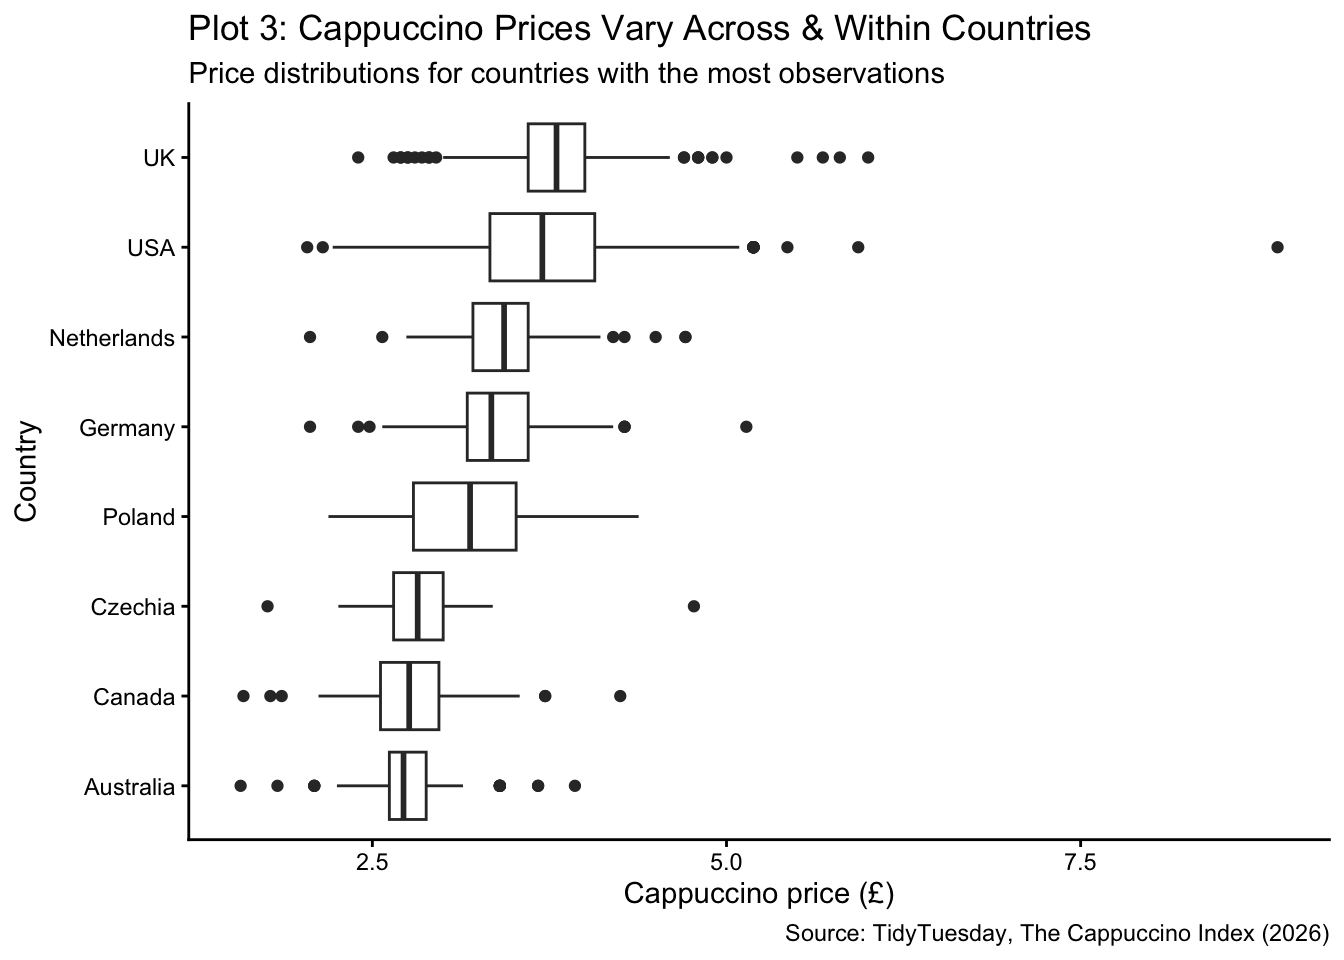
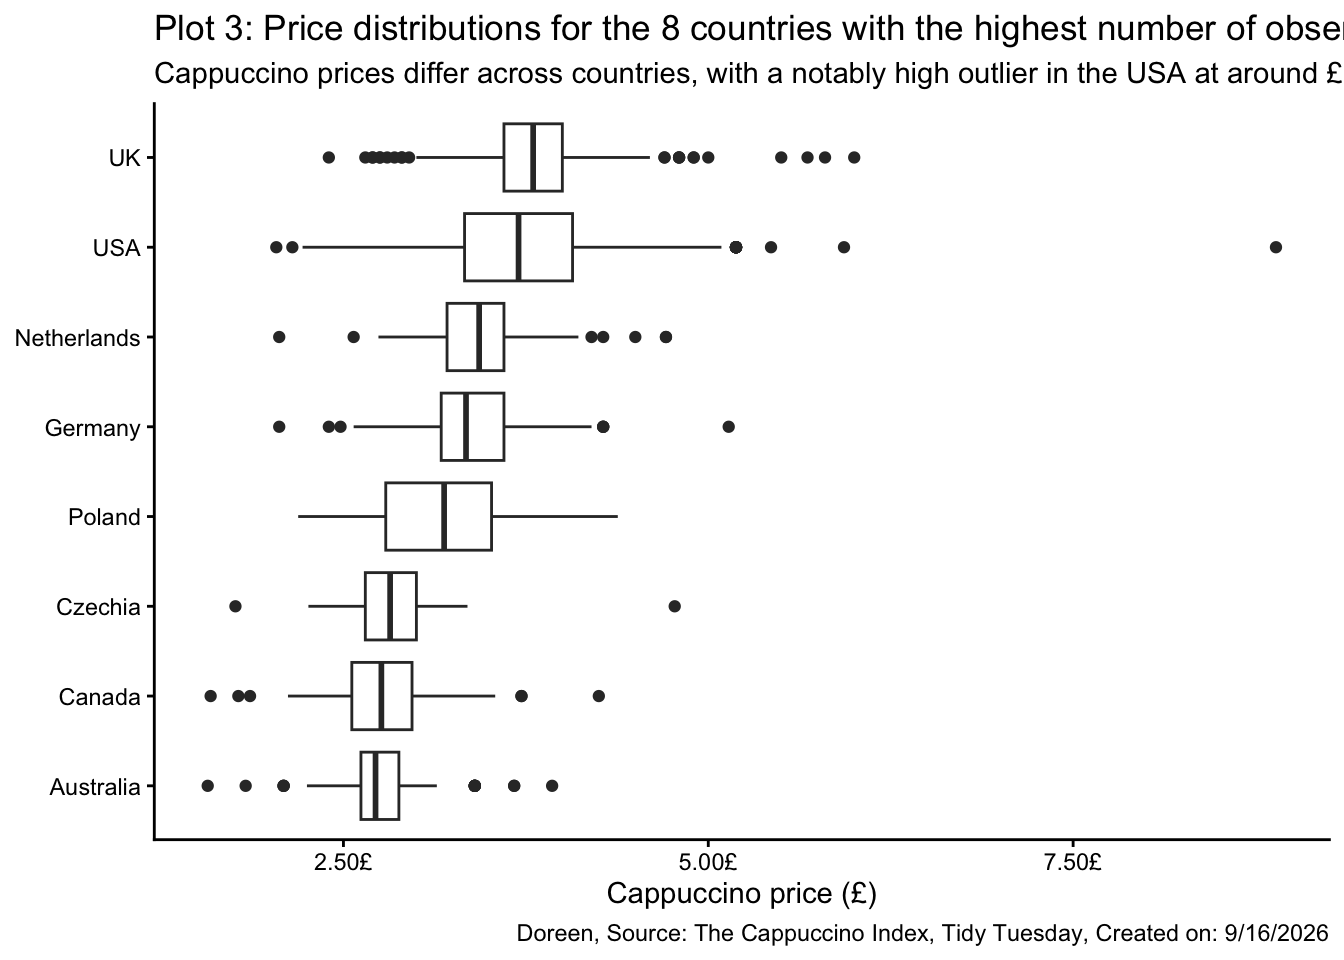
Built site for gh-pages

diff --git a/tt/2025-07-08.html b/tt/2025-07-08.html
@@ -532,15 +532,16 @@ cookieconsent.run({
 </div>
 <p><em>How does the price vary within countries?</em></p>
 <div class="cell">
-<details class="code-fold"><summary>Code</summary><div class="code-copy-outer-scaffold"><div class="sourceCode cell-code" id="cb7"><pre class="sourceCode numberSource r number-lines code-with-copy"><code class="sourceCode r"><span id="cb7-1"><a href="#cb7-1" aria-label="1"></a><span class="fu">ggplot</span>(cafe_top,<span class="fu">aes</span>(<span class="at">x =</span> <span class="fu">reorder</span>(country, price_gbp),<span class="at">y =</span> price_gbp)) <span class="sc">+</span></span>
+<details class="code-fold"><summary>Code</summary><div class="code-copy-outer-scaffold"><div class="sourceCode cell-code" id="cb7"><pre class="sourceCode numberSource r number-lines code-with-copy"><code class="sourceCode r"><span id="cb7-1"><a href="#cb7-1" aria-label="1"></a><span class="fu">ggplot</span>(cafe_top,<span class="fu">aes</span>(<span class="at">x =</span> <span class="fu">reorder</span>(country, price_gbp, <span class="at">FUN =</span> median),<span class="at">y =</span> price_gbp)) <span class="sc">+</span></span>
 <span id="cb7-2"><a href="#cb7-2" aria-label="2"></a>  <span class="fu">geom_boxplot</span>() <span class="sc">+</span></span>
 <span id="cb7-3"><a href="#cb7-3" aria-label="3"></a>  <span class="fu">coord_flip</span>() <span class="sc">+</span></span>
-<span id="cb7-4"><a href="#cb7-4" aria-label="4"></a>  <span class="fu">labs</span>(<span class="at">title =</span> <span class="st">"Plot 3: Cappuccino Prices Vary Across &amp; Within Countries"</span>,</span>
-<span id="cb7-5"><a href="#cb7-5" aria-label="5"></a>       <span class="at">subtitle =</span> <span class="st">"Price distributions for countries with the most observations"</span>,</span>
-<span id="cb7-6"><a href="#cb7-6" aria-label="6"></a>       <span class="at">x =</span> <span class="st">"Country"</span>,</span>
+<span id="cb7-4"><a href="#cb7-4" aria-label="4"></a>  <span class="fu">labs</span>(<span class="at">title =</span> <span class="st">"Plot 3: Price distributions for the 8 countries with the highest number of observations"</span>,</span>
+<span id="cb7-5"><a href="#cb7-5" aria-label="5"></a>       <span class="at">subtitle =</span> <span class="st">"Cappuccino prices differ across countries, with a notably high outlier in the USA at around £10"</span>,</span>
+<span id="cb7-6"><a href="#cb7-6" aria-label="6"></a>       <span class="at">x =</span> <span class="cn">NULL</span>,</span>
 <span id="cb7-7"><a href="#cb7-7" aria-label="7"></a>       <span class="at">y =</span> <span class="st">"Cappuccino price (£)"</span>,</span>
-<span id="cb7-8"><a href="#cb7-8" aria-label="8"></a>       <span class="at">caption =</span> <span class="st">"Source: TidyTuesday, The Cappuccino Index (2026)"</span>) <span class="sc">+</span></span>
-<span id="cb7-9"><a href="#cb7-9" aria-label="9"></a>  <span class="fu">theme_classic</span>()</span></code></pre></div><button title="Copy to Clipboard" class="code-copy-button"><i class="bi"></i></button></div>
+<span id="cb7-8"><a href="#cb7-8" aria-label="8"></a>       <span class="at">caption =</span> <span class="st">"Doreen, Source: The Cappuccino Index, Tidy Tuesday, Created on: 9/16/2026"</span>) <span class="sc">+</span></span>
+<span id="cb7-9"><a href="#cb7-9" aria-label="9"></a>   <span class="fu">scale_y_continuous</span>(<span class="at">labels =</span> scales<span class="sc">::</span><span class="fu">label_currency</span>(<span class="at">prefix =</span> <span class="st">""</span>, <span class="at">suffix =</span> <span class="st">"£"</span>)) <span class="sc">+</span></span>
+<span id="cb7-10"><a href="#cb7-10" aria-label="10"></a>  <span class="fu">theme_classic</span>()</span></code></pre></div><button title="Copy to Clipboard" class="code-copy-button"><i class="bi"></i></button></div>
 </details><div class="cell-output-display">
 <div>
 <figure class="figure"><p><img src="2025-07-08_files/figure-html/unnamed-chunk-5-1.png" class="img-fluid figure-img" width="672"></p>
@@ -1119,39 +1120,40 @@ cookieconsent.run({
 <span id="cb9-71"><a href="#cb9-71" aria-label="63"></a></span>
 <span id="cb9-72"><a href="#cb9-72" aria-label="64"></a>*How does the price vary within countries?*</span>
 <span id="cb9-75"><a href="#cb9-75" aria-label="65"></a><span class="in">```{r}</span></span>
-<span id="cb9-76"><a href="#cb9-76" aria-label="66"></a><span class="fu">ggplot</span>(cafe_top,<span class="fu">aes</span>(<span class="at">x =</span> <span class="fu">reorder</span>(country, price_gbp),<span class="at">y =</span> price_gbp)) <span class="sc">+</span></span>
+<span id="cb9-76"><a href="#cb9-76" aria-label="66"></a><span class="fu">ggplot</span>(cafe_top,<span class="fu">aes</span>(<span class="at">x =</span> <span class="fu">reorder</span>(country, price_gbp, <span class="at">FUN =</span> median),<span class="at">y =</span> price_gbp)) <span class="sc">+</span></span>
 <span id="cb9-77"><a href="#cb9-77" aria-label="67"></a>  <span class="fu">geom_boxplot</span>() <span class="sc">+</span></span>
 <span id="cb9-78"><a href="#cb9-78" aria-label="68"></a>  <span class="fu">coord_flip</span>() <span class="sc">+</span></span>
-<span id="cb9-79"><a href="#cb9-79" aria-label="69"></a>  <span class="fu">labs</span>(<span class="at">title =</span> <span class="st">"Plot 3: Cappuccino Prices Vary Across &amp; Within Countries"</span>,</span>
-<span id="cb9-80"><a href="#cb9-80" aria-label="70"></a>       <span class="at">subtitle =</span> <span class="st">"Price distributions for countries with the most observations"</span>,</span>
-<span id="cb9-81"><a href="#cb9-81" aria-label="71"></a>       <span class="at">x =</span> <span class="st">"Country"</span>,</span>
+<span id="cb9-79"><a href="#cb9-79" aria-label="69"></a>  <span class="fu">labs</span>(<span class="at">title =</span> <span class="st">"Plot 3: Price distributions for the 8 countries with the highest number of observations"</span>,</span>
+<span id="cb9-80"><a href="#cb9-80" aria-label="70"></a>       <span class="at">subtitle =</span> <span class="st">"Cappuccino prices differ across countries, with a notably high outlier in the USA at around £10"</span>,</span>
+<span id="cb9-81"><a href="#cb9-81" aria-label="71"></a>       <span class="at">x =</span> <span class="cn">NULL</span>,</span>
 <span id="cb9-82"><a href="#cb9-82" aria-label="72"></a>       <span class="at">y =</span> <span class="st">"Cappuccino price (£)"</span>,</span>
-<span id="cb9-83"><a href="#cb9-83" aria-label="73"></a>       <span class="at">caption =</span> <span class="st">"Source: TidyTuesday, The Cappuccino Index (2026)"</span>) <span class="sc">+</span></span>
-<span id="cb9-84"><a href="#cb9-84" aria-label="74"></a>  <span class="fu">theme_classic</span>()</span>
-<span id="cb9-85"><a href="#cb9-85" aria-label="75"></a><span class="in">```</span></span>
-<span id="cb9-86"><a href="#cb9-86" aria-label="76"></a>Cappuccino prices vary both across and within countries. The UK and USA have relatively high median prices among the 8 countries, while Czechia, Canada, and Australia have lower median prices. The different box widths also show that some countries like USA and Poland have more variation in cappuccino prices than others. Several countries have outliers, which shows that individual cafe can differ from the typical price.</span>
-<span id="cb9-87"><a href="#cb9-87" aria-label="77"></a></span>
+<span id="cb9-83"><a href="#cb9-83" aria-label="73"></a>       <span class="at">caption =</span> <span class="st">"Doreen, Source: The Cappuccino Index, Tidy Tuesday, Created on: 9/16/2026"</span>) <span class="sc">+</span></span>
+<span id="cb9-84"><a href="#cb9-84" aria-label="74"></a>   <span class="fu">scale_y_continuous</span>(<span class="at">labels =</span> scales<span class="sc">::</span><span class="fu">label_currency</span>(<span class="at">prefix =</span> <span class="st">""</span>, <span class="at">suffix =</span> <span class="st">"£"</span>)) <span class="sc">+</span></span>
+<span id="cb9-85"><a href="#cb9-85" aria-label="75"></a>  <span class="fu">theme_classic</span>()</span>
+<span id="cb9-86"><a href="#cb9-86" aria-label="76"></a><span class="in">```</span></span>
+<span id="cb9-87"><a href="#cb9-87" aria-label="77"></a>Cappuccino prices vary both across and within countries. The UK and USA have relatively high median prices among the 8 countries, while Czechia, Canada, and Australia have lower median prices. The different box widths also show that some countries like USA and Poland have more variation in cappuccino prices than others. Several countries have outliers, which shows that individual cafe can differ from the typical price.</span>
 <span id="cb9-88"><a href="#cb9-88" aria-label="78"></a></span>
-<span id="cb9-89"><a href="#cb9-89" aria-label="79"></a><span class="fu"># Plot 4</span></span>
-<span id="cb9-90"><a href="#cb9-90" aria-label="80"></a></span>
-<span id="cb9-91"><a href="#cb9-91" aria-label="81"></a>*Is a cappuccino more expensive in places where workers earn higher hourly wages?*</span>
-<span id="cb9-94"><a href="#cb9-94" aria-label="82"></a><span class="in">```{r}</span></span>
-<span id="cb9-95"><a href="#cb9-95" aria-label="83"></a><span class="fu">ggplot</span>(cafe,<span class="fu">aes</span>(<span class="at">x =</span> hourly_wage_gbp,<span class="at">y =</span> price_gbp)) <span class="sc">+</span></span>
-<span id="cb9-96"><a href="#cb9-96" aria-label="84"></a>  <span class="fu">geom_point</span>(<span class="at">alpha =</span> <span class="fl">0.4</span>) <span class="sc">+</span></span>
-<span id="cb9-97"><a href="#cb9-97" aria-label="85"></a>  <span class="fu">geom_smooth</span>(<span class="at">method =</span> <span class="st">"lm"</span>) <span class="sc">+</span></span>
-<span id="cb9-98"><a href="#cb9-98" aria-label="86"></a>  <span class="fu">labs</span>(<span class="at">title =</span> <span class="st">"Plot 4: Cappuccino Prices vs Wages"</span>,</span>
-<span id="cb9-99"><a href="#cb9-99" aria-label="87"></a>       <span class="at">subtitle =</span> <span class="st">"Relationship between hourly wages and cappuccino prices"</span>,</span>
-<span id="cb9-100"><a href="#cb9-100" aria-label="88"></a>       <span class="at">x =</span> <span class="st">"Hourly wage (£)"</span>,</span>
-<span id="cb9-101"><a href="#cb9-101" aria-label="89"></a>       <span class="at">y =</span> <span class="st">"Cappuccino price (£)"</span>,</span>
-<span id="cb9-102"><a href="#cb9-102" aria-label="90"></a>       <span class="at">caption =</span> <span class="st">"Source: TidyTuesday, The Cappuccino Index (2026)"</span>) <span class="sc">+</span></span>
-<span id="cb9-103"><a href="#cb9-103" aria-label="91"></a>  <span class="fu">theme_classic</span>()</span>
-<span id="cb9-104"><a href="#cb9-104" aria-label="92"></a><span class="in">```</span></span>
-<span id="cb9-105"><a href="#cb9-105" aria-label="93"></a>There is a positive association between cappuccino prices and hourly wages, although there are several ourliers.</span>
-<span id="cb9-106"><a href="#cb9-106" aria-label="94"></a></span>
+<span id="cb9-89"><a href="#cb9-89" aria-label="79"></a></span>
+<span id="cb9-90"><a href="#cb9-90" aria-label="80"></a><span class="fu"># Plot 4</span></span>
+<span id="cb9-91"><a href="#cb9-91" aria-label="81"></a></span>
+<span id="cb9-92"><a href="#cb9-92" aria-label="82"></a>*Is a cappuccino more expensive in places where workers earn higher hourly wages?*</span>
+<span id="cb9-95"><a href="#cb9-95" aria-label="83"></a><span class="in">```{r}</span></span>
+<span id="cb9-96"><a href="#cb9-96" aria-label="84"></a><span class="fu">ggplot</span>(cafe,<span class="fu">aes</span>(<span class="at">x =</span> hourly_wage_gbp,<span class="at">y =</span> price_gbp)) <span class="sc">+</span></span>
+<span id="cb9-97"><a href="#cb9-97" aria-label="85"></a>  <span class="fu">geom_point</span>(<span class="at">alpha =</span> <span class="fl">0.4</span>) <span class="sc">+</span></span>
+<span id="cb9-98"><a href="#cb9-98" aria-label="86"></a>  <span class="fu">geom_smooth</span>(<span class="at">method =</span> <span class="st">"lm"</span>) <span class="sc">+</span></span>
+<span id="cb9-99"><a href="#cb9-99" aria-label="87"></a>  <span class="fu">labs</span>(<span class="at">title =</span> <span class="st">"Plot 4: Cappuccino Prices vs Wages"</span>,</span>
+<span id="cb9-100"><a href="#cb9-100" aria-label="88"></a>       <span class="at">subtitle =</span> <span class="st">"Relationship between hourly wages and cappuccino prices"</span>,</span>
+<span id="cb9-101"><a href="#cb9-101" aria-label="89"></a>       <span class="at">x =</span> <span class="st">"Hourly wage (£)"</span>,</span>
+<span id="cb9-102"><a href="#cb9-102" aria-label="90"></a>       <span class="at">y =</span> <span class="st">"Cappuccino price (£)"</span>,</span>
+<span id="cb9-103"><a href="#cb9-103" aria-label="91"></a>       <span class="at">caption =</span> <span class="st">"Source: TidyTuesday, The Cappuccino Index (2026)"</span>) <span class="sc">+</span></span>
+<span id="cb9-104"><a href="#cb9-104" aria-label="92"></a>  <span class="fu">theme_classic</span>()</span>
+<span id="cb9-105"><a href="#cb9-105" aria-label="93"></a><span class="in">```</span></span>
+<span id="cb9-106"><a href="#cb9-106" aria-label="94"></a>There is a positive association between cappuccino prices and hourly wages, although there are several ourliers.</span>
 <span id="cb9-107"><a href="#cb9-107" aria-label="95"></a></span>
-<span id="cb9-108"><a href="#cb9-108" aria-label="96"></a><span class="fu">## Conclusion</span></span>
-<span id="cb9-109"><a href="#cb9-109" aria-label="97"></a></span>
-<span id="cb9-110"><a href="#cb9-110" aria-label="98"></a>The Cappuccino Index shows that the affordability of a cappuccino varies across countries. While cappuccino prices tend to be higher in places with higher hourly wages, price differences also occur within countries. Overall, looking at cappuccino price alone does not fully describe affordability; local wages provide important context.</span>
+<span id="cb9-108"><a href="#cb9-108" aria-label="96"></a></span>
+<span id="cb9-109"><a href="#cb9-109" aria-label="97"></a><span class="fu">## Conclusion</span></span>
+<span id="cb9-110"><a href="#cb9-110" aria-label="98"></a></span>
+<span id="cb9-111"><a href="#cb9-111" aria-label="99"></a>The Cappuccino Index shows that the affordability of a cappuccino varies across countries. While cappuccino prices tend to be higher in places with higher hourly wages, price differences also occur within countries. Overall, looking at cappuccino price alone does not fully describe affordability; local wages provide important context.</span>
 </code></pre></div><button title="Copy to Clipboard" class="code-copy-button" data-in-quarto-modal=""><i class="bi"></i></button></div>
 </div></div></div></div></div>
 </div> <!-- /content -->

diff --git a/index.html b/index.html
@@ -455,7 +455,7 @@ cookieconsent.run({
     <div>
     <div class="quarto-title-meta-heading">Published</div>
     <div class="quarto-title-meta-contents">
-      <p class="date">Wednesday, September 23, 2026</p>
+      <p class="date">Thursday, September 24, 2026</p>
     </div>
   </div>
   
@@ -467,8 +467,8 @@ cookieconsent.run({
 </header><p>Welcome to my online portfolio for COMP/STAT112 course taken at <a href="https://www.macalester.edu/">Macalester College</a>. Please, use the side bar on the left for navigation.</p>
 <div class="cell">
 <div class="cell-output-display">
-<div class="wordcloud2 html-widget html-fill-item" id="htmlwidget-a5646f68af10ee69587e" style="width:100%;height:464px;"></div>
-<script type="application/json" data-for="htmlwidget-a5646f68af10ee69587e">{"x":{"word":["welcome","to","comp","stat","212","mac","st paul"],"freq":[10,2,8,8,8,6,6],"fontFamily":"Segoe UI","fontWeight":"bold","color":"random-dark","minSize":0,"weightFactor":18,"backgroundColor":"white","gridSize":0,"minRotation":-0.7853981633974483,"maxRotation":0.7853981633974483,"shuffle":true,"rotateRatio":0.4,"shape":"cardioid","ellipticity":0.65,"figBase64":null,"hover":null},"evals":[],"jsHooks":{"render":[{"code":"function(el,x){\n                        console.log(123);\n                        if(!iii){\n                          window.location.reload();\n                          iii = False;\n\n                        }\n  }","data":null}]}}</script>
+<div class="wordcloud2 html-widget html-fill-item" id="htmlwidget-52472bd07beb58171055" style="width:100%;height:464px;"></div>
+<script type="application/json" data-for="htmlwidget-52472bd07beb58171055">{"x":{"word":["welcome","to","comp","stat","212","mac","st paul"],"freq":[10,2,8,8,8,6,6],"fontFamily":"Segoe UI","fontWeight":"bold","color":"random-dark","minSize":0,"weightFactor":18,"backgroundColor":"white","gridSize":0,"minRotation":-0.7853981633974483,"maxRotation":0.7853981633974483,"shuffle":true,"rotateRatio":0.4,"shape":"cardioid","ellipticity":0.65,"figBase64":null,"hover":null},"evals":[],"jsHooks":{"render":[{"code":"function(el,x){\n                        console.log(123);\n                        if(!iii){\n                          window.location.reload();\n                          iii = False;\n\n                        }\n  }","data":null}]}}</script>
 </div>
 </div>
 

diff --git a/404.html b/404.html
@@ -7,7 +7,7 @@
 <meta name="viewport" content="width=device-width, initial-scale=1.0, user-scalable=yes">
 
 
-<title>quarto-input717e492b9bb186f9 – COMP/STAT212 Portfolio</title>
+<title>quarto-input8fb5d7b8d0b4f21e – COMP/STAT212 Portfolio</title>
 <style>
 /* Default styles provided by pandoc.
 ** See https://pandoc.org/MANUAL.html#variables-for-html for config info.
